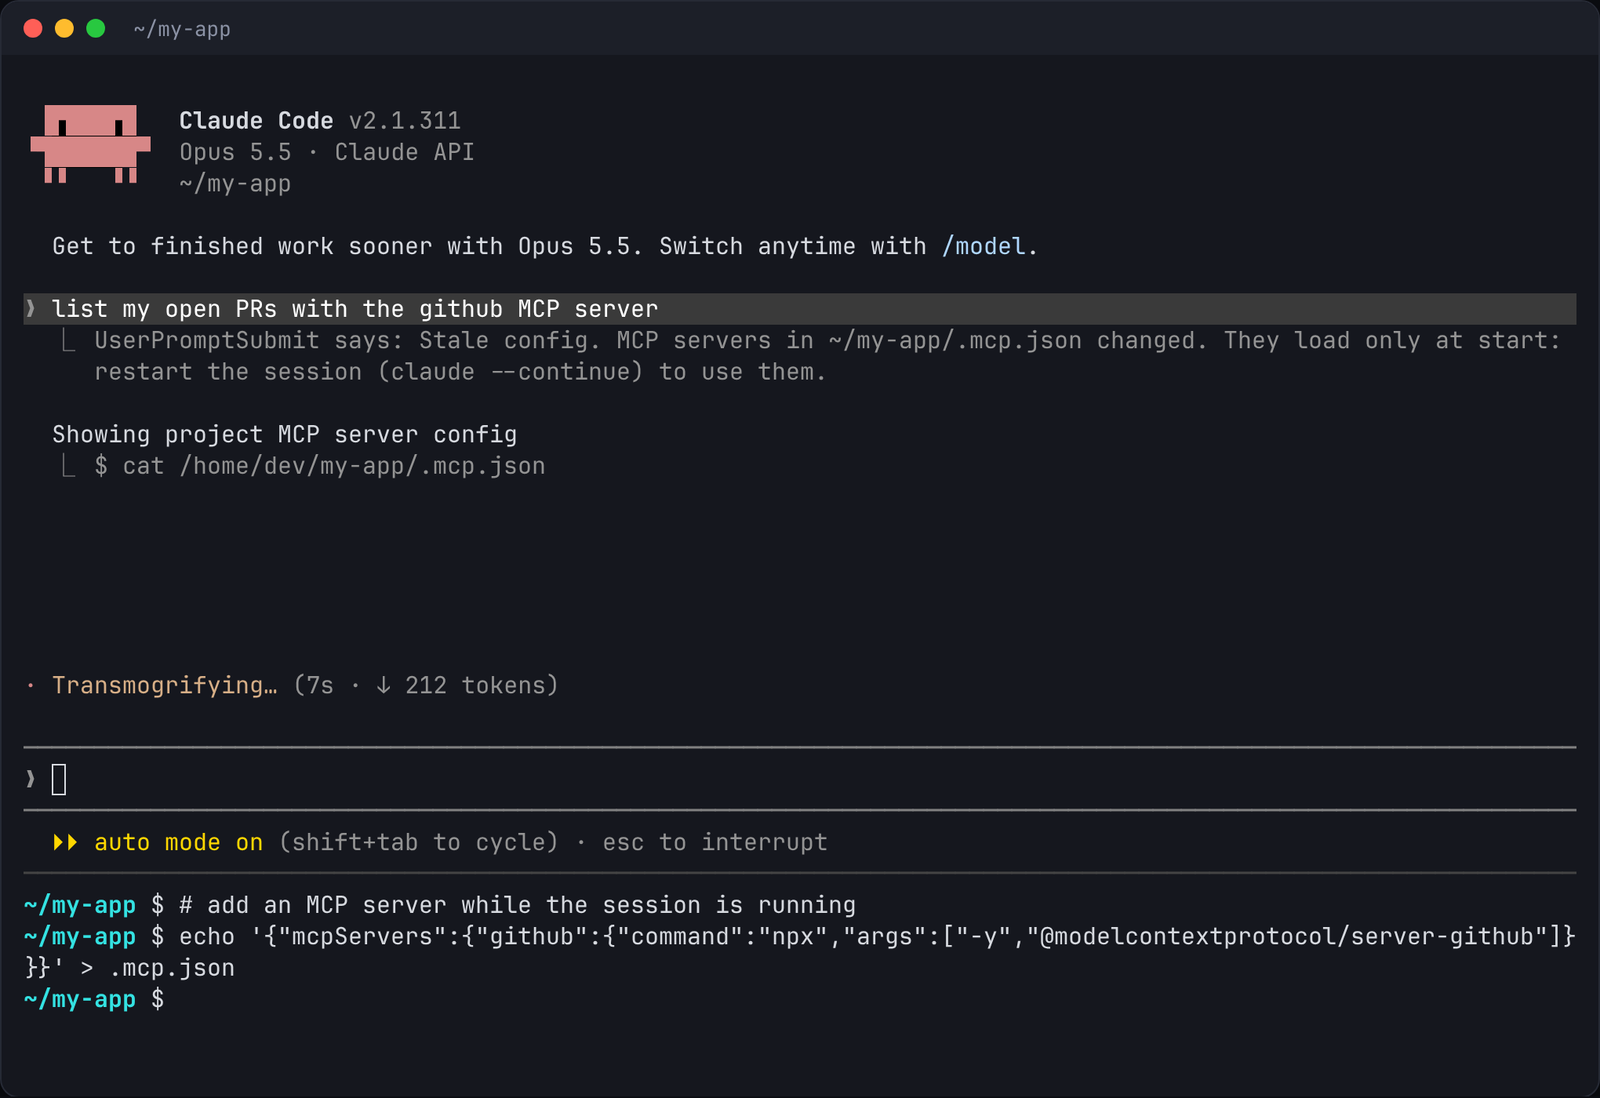
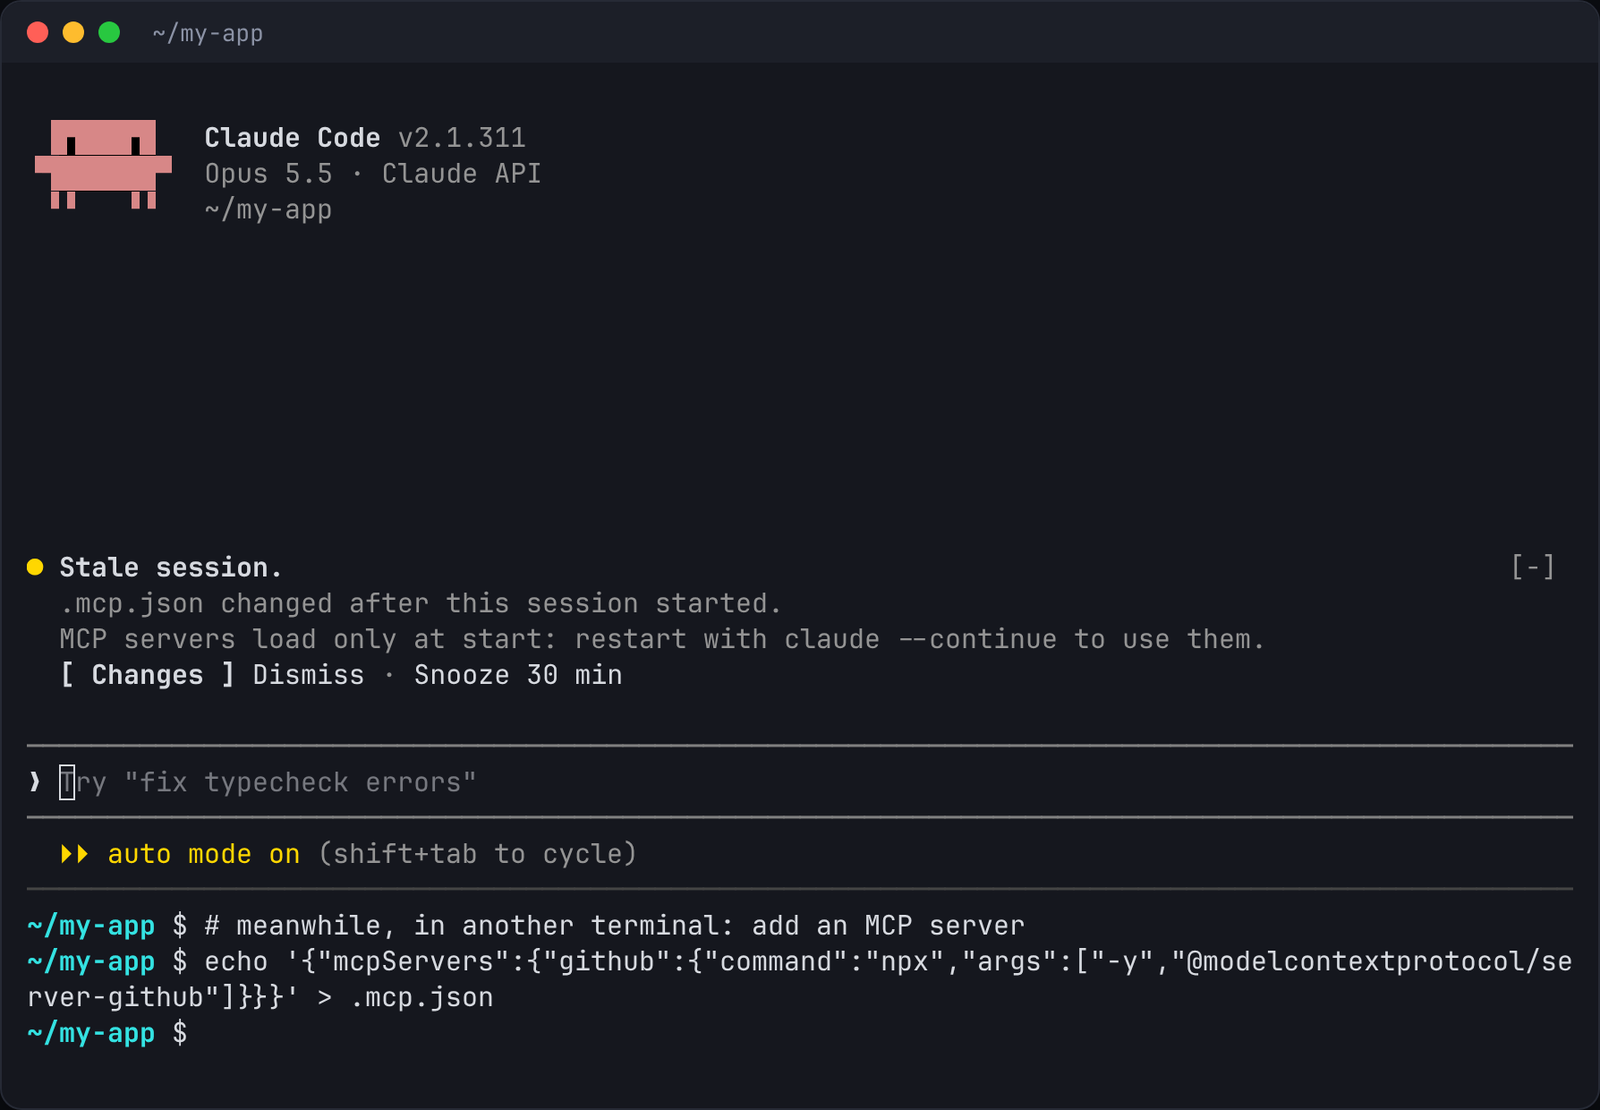
README and clip lead with the bar
New live take: an MCP server added from another terminal, and the bar
comes up on its own in a fresh 2.1.311 session.

diff --git a/README.md b/README.md
@@ -1,8 +1,8 @@
 # stale-config
 
-A Claude Code plugin that tells a running session when its config went stale on disk, and names the fix.
+A Claude Code plugin that puts a bar above the prompt when your session's config goes stale on disk, and names the fix.
 
-![stale-config warning in a live Claude Code session after an MCP server was added to .mcp.json](media/demo.gif)
+![A live Claude Code session: an MCP server is added to .mcp.json in another terminal, and a "Stale session" bar appears above the prompt by itself, saying to restart with claude --continue](media/demo.gif)
 
 ```
 claude plugin install stale-config --marketplace darrentmorgan/claude-stale-config
@@ -14,11 +14,16 @@ Or let your agent do it. Paste this into Claude Code:
 Install the stale-config plugin: fetch and follow https://raw.githubusercontent.com/darrentmorgan/claude-stale-config/main/INSTALL.md
 ```
 
-Claude Code reads some config once, when a session starts. If you edit that config later, the session keeps running on the old version and gives no warning. This plugin records a hash of each watched file when the session starts. On every prompt it checks the files again. When something the session can't pick up by itself has changed, you get one warning:
+Claude Code reads some config once, when a session starts. If you edit that config later, the session keeps running on the old version and gives no warning. This plugin notices, in two places:
+
+- **The bar above the prompt.** It checks the watched files every few seconds, so it shows up soon after the edit, before you type anything. It says what changed and the fix. For `enabledPlugins` it has a **Reload** button that runs `/reload-plugins` for you. For MCP servers it says to restart with `claude --continue`, since nothing else loads them. **Changes** opens a side-by-side diff of just the part that counts. **Dismiss** hides it until the file changes again; **Snooze 30 min** hides it for a while.
+- **One line on your next prompt**, from a hook, which also tells Claude what changed so it re-reads changed instruction files:
 
 ```
 Stale config. MCP servers in .mcp.json changed. They load only at start: restart the session (claude --continue) to use them.
 ```
+
+The bar is a Claude Code mod (a TypeScript hooks module, `hooks/session-health.tsx`). It was tested in the terminal on 2.1.311. Where mods don't draw (`claude -p`, the SDK), you still get the hook.
 
 ## What actually reloads (tested, not assumed)
 
@@ -45,7 +50,7 @@ The one-line install above needs Claude Code 2.1.292 or newer. On older versions
 
 Sessions that were already open before the install never run the hook. Restart those once. To remove it: `claude plugin uninstall stale-config@stale-config`.
 
-The clip above is a real take: a fresh Claude Code 2.1.311 session, the plugin installed from this repo, an MCP server added to `.mcp.json` mid-session, and the next prompt. Only the pauses were cut.
+The clip above is a real take: a fresh Claude Code 2.1.311 session with the plugin installed, and an MCP server added to `.mcp.json` from another terminal. Nothing was typed into Claude; the bar came up on its own. Only the pauses were cut.
 
 ## Details
 
@@ -54,12 +59,14 @@ The clip above is a real take: a fresh Claude Code 2.1.311 session, the plugin i
 - **Once per change.** After it warns about a change, it stays quiet until the file changes again. A file that is touched but has the same content is not a change.
 - **`/clear` and compaction** reload instruction files but not settings. Settings are compared with the baseline from the claude process's first session.
 - **`claude daemon`:** if the daemon started before your latest user-level change, its spare sessions run the old config. The plugin flags it once, with `claude daemon stop --any`.
-- **Cost:** it is stdlib Python with no dependencies, and takes about 35 ms per prompt when nothing changed. `~/.claude.json` over 8 MB is skipped.
+- **The bar watches a shorter list:** the settings and MCP files above, `CLAUDE.md`, `.claude/CLAUDE.md`, `CLAUDE.local.md` and `AGENTS.md` in the project, and `~/.claude/CLAUDE.md` and `~/.agents/AGENTS.md`. Rules folders and `@imports` are left to the hook. A change to instruction files alone shows a quieter "Instructions changed" notice, which goes once your next message has run. It also names a plugin update, but only beside a settings change, whose Reload loads both: an update alone would nag in every open session.
+- **Cost:** the hook is stdlib Python with no dependencies, and takes about 35 ms per prompt when nothing changed. The bar stats a dozen files every 5 seconds and reads one only when its time changes. Both skip `~/.claude.json` over 8 MB.
 - **Fails open.** Any error gives `{}` and the session carries on. State goes in the plugin data folder and is pruned after 30 days.
 
 ## Limits
 
 - In a terminal session, the instruction notice is a courtesy. Claude Code already has the new text.
+- The bar's Reload in the desktop app fills in `/reload-plugins` for you to send, because Claude Code runs it there only when you send it yourself.
 - Headless sessions keep their start-up `hooks`. This is not flagged, because a headless session can't reload them either.
 - Process detection uses `ps`. On Windows the daemon check and the per-process baseline are skipped.
 
@@ -67,6 +74,9 @@ The clip above is a real take: a fresh Claude Code 2.1.311 session, the plugin i
 
 ```
 python3 -m pytest tests
+claude plugin test .
 ```
+
+The first runs the hook's tests, the second the bar's.
 
 MIT licensed.

diff --git a/INSTALL.md b/INSTALL.md
@@ -19,6 +19,7 @@ by hand.
    - It works in sessions started from now on. A session that was open before the
      install never runs the hook, so restart those once.
    - There is nothing to configure. When config that a running session can't reload
-     changes on disk, the next prompt shows one "Stale config" line with the fix.
+     changes on disk, a "Stale session" bar comes up above the prompt with the fix,
+     and the next prompt shows one "Stale config" line too.
 
 To remove it: `claude plugin uninstall stale-config@stale-config`.
